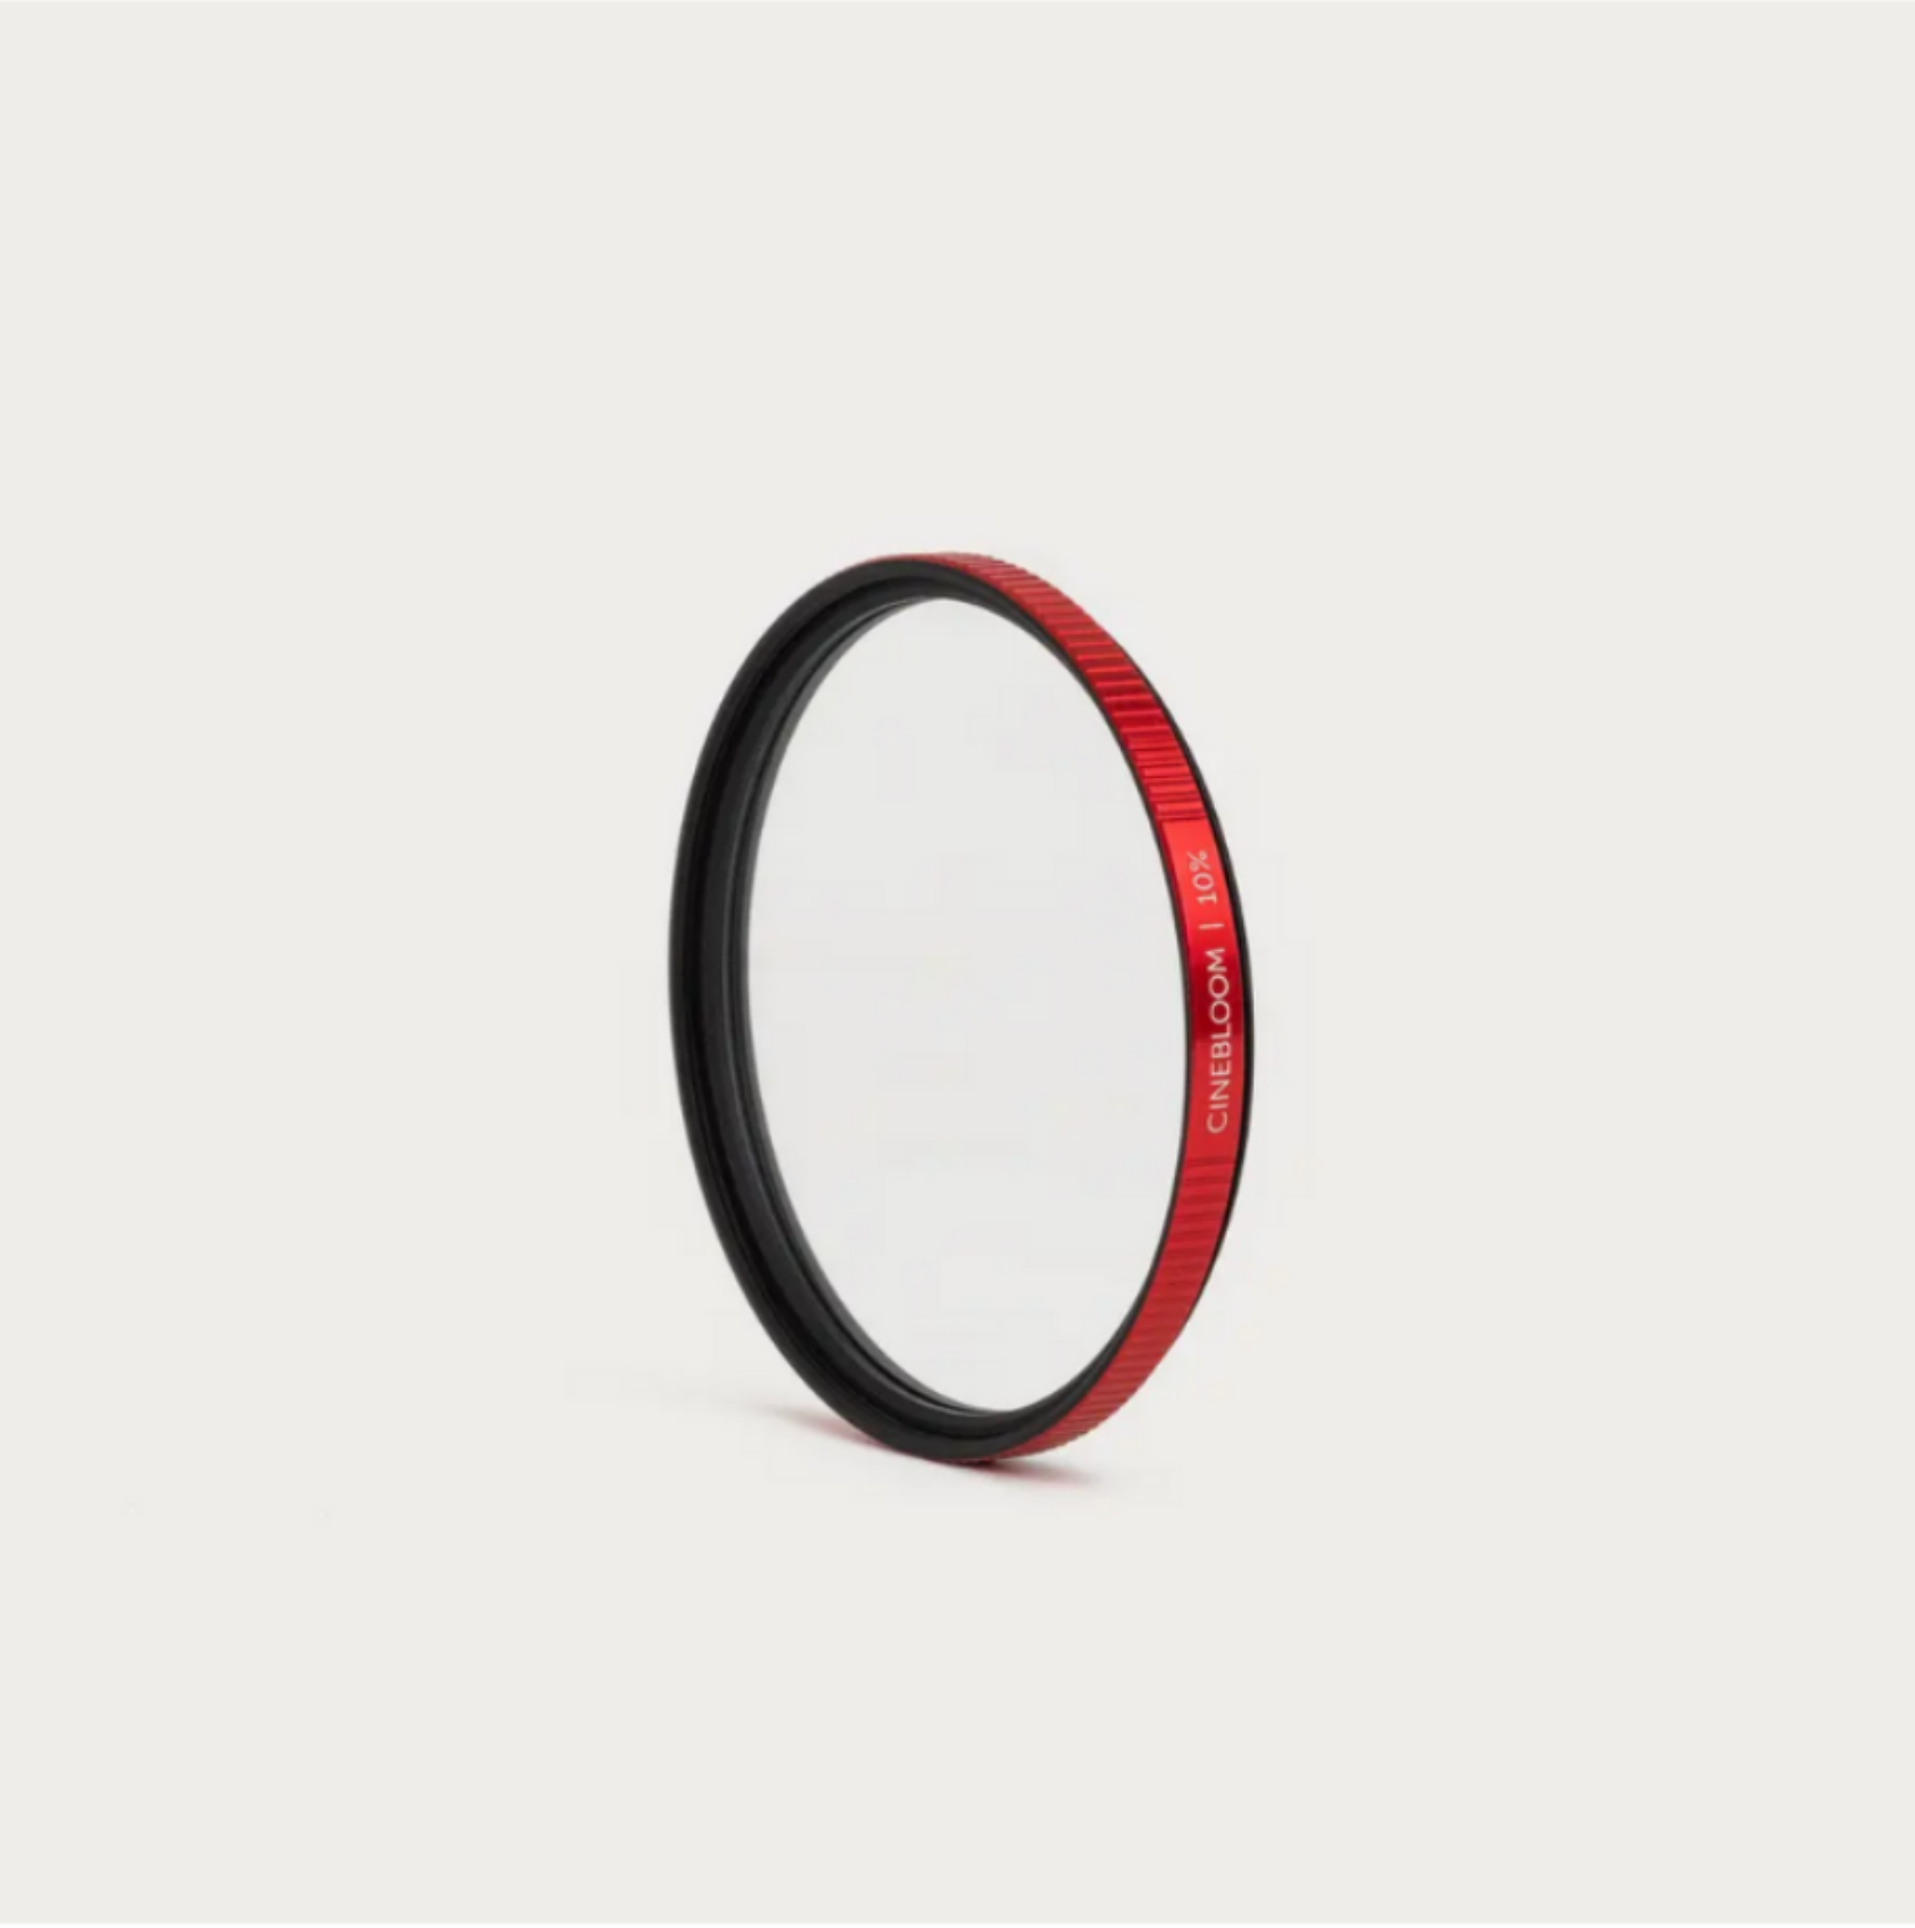
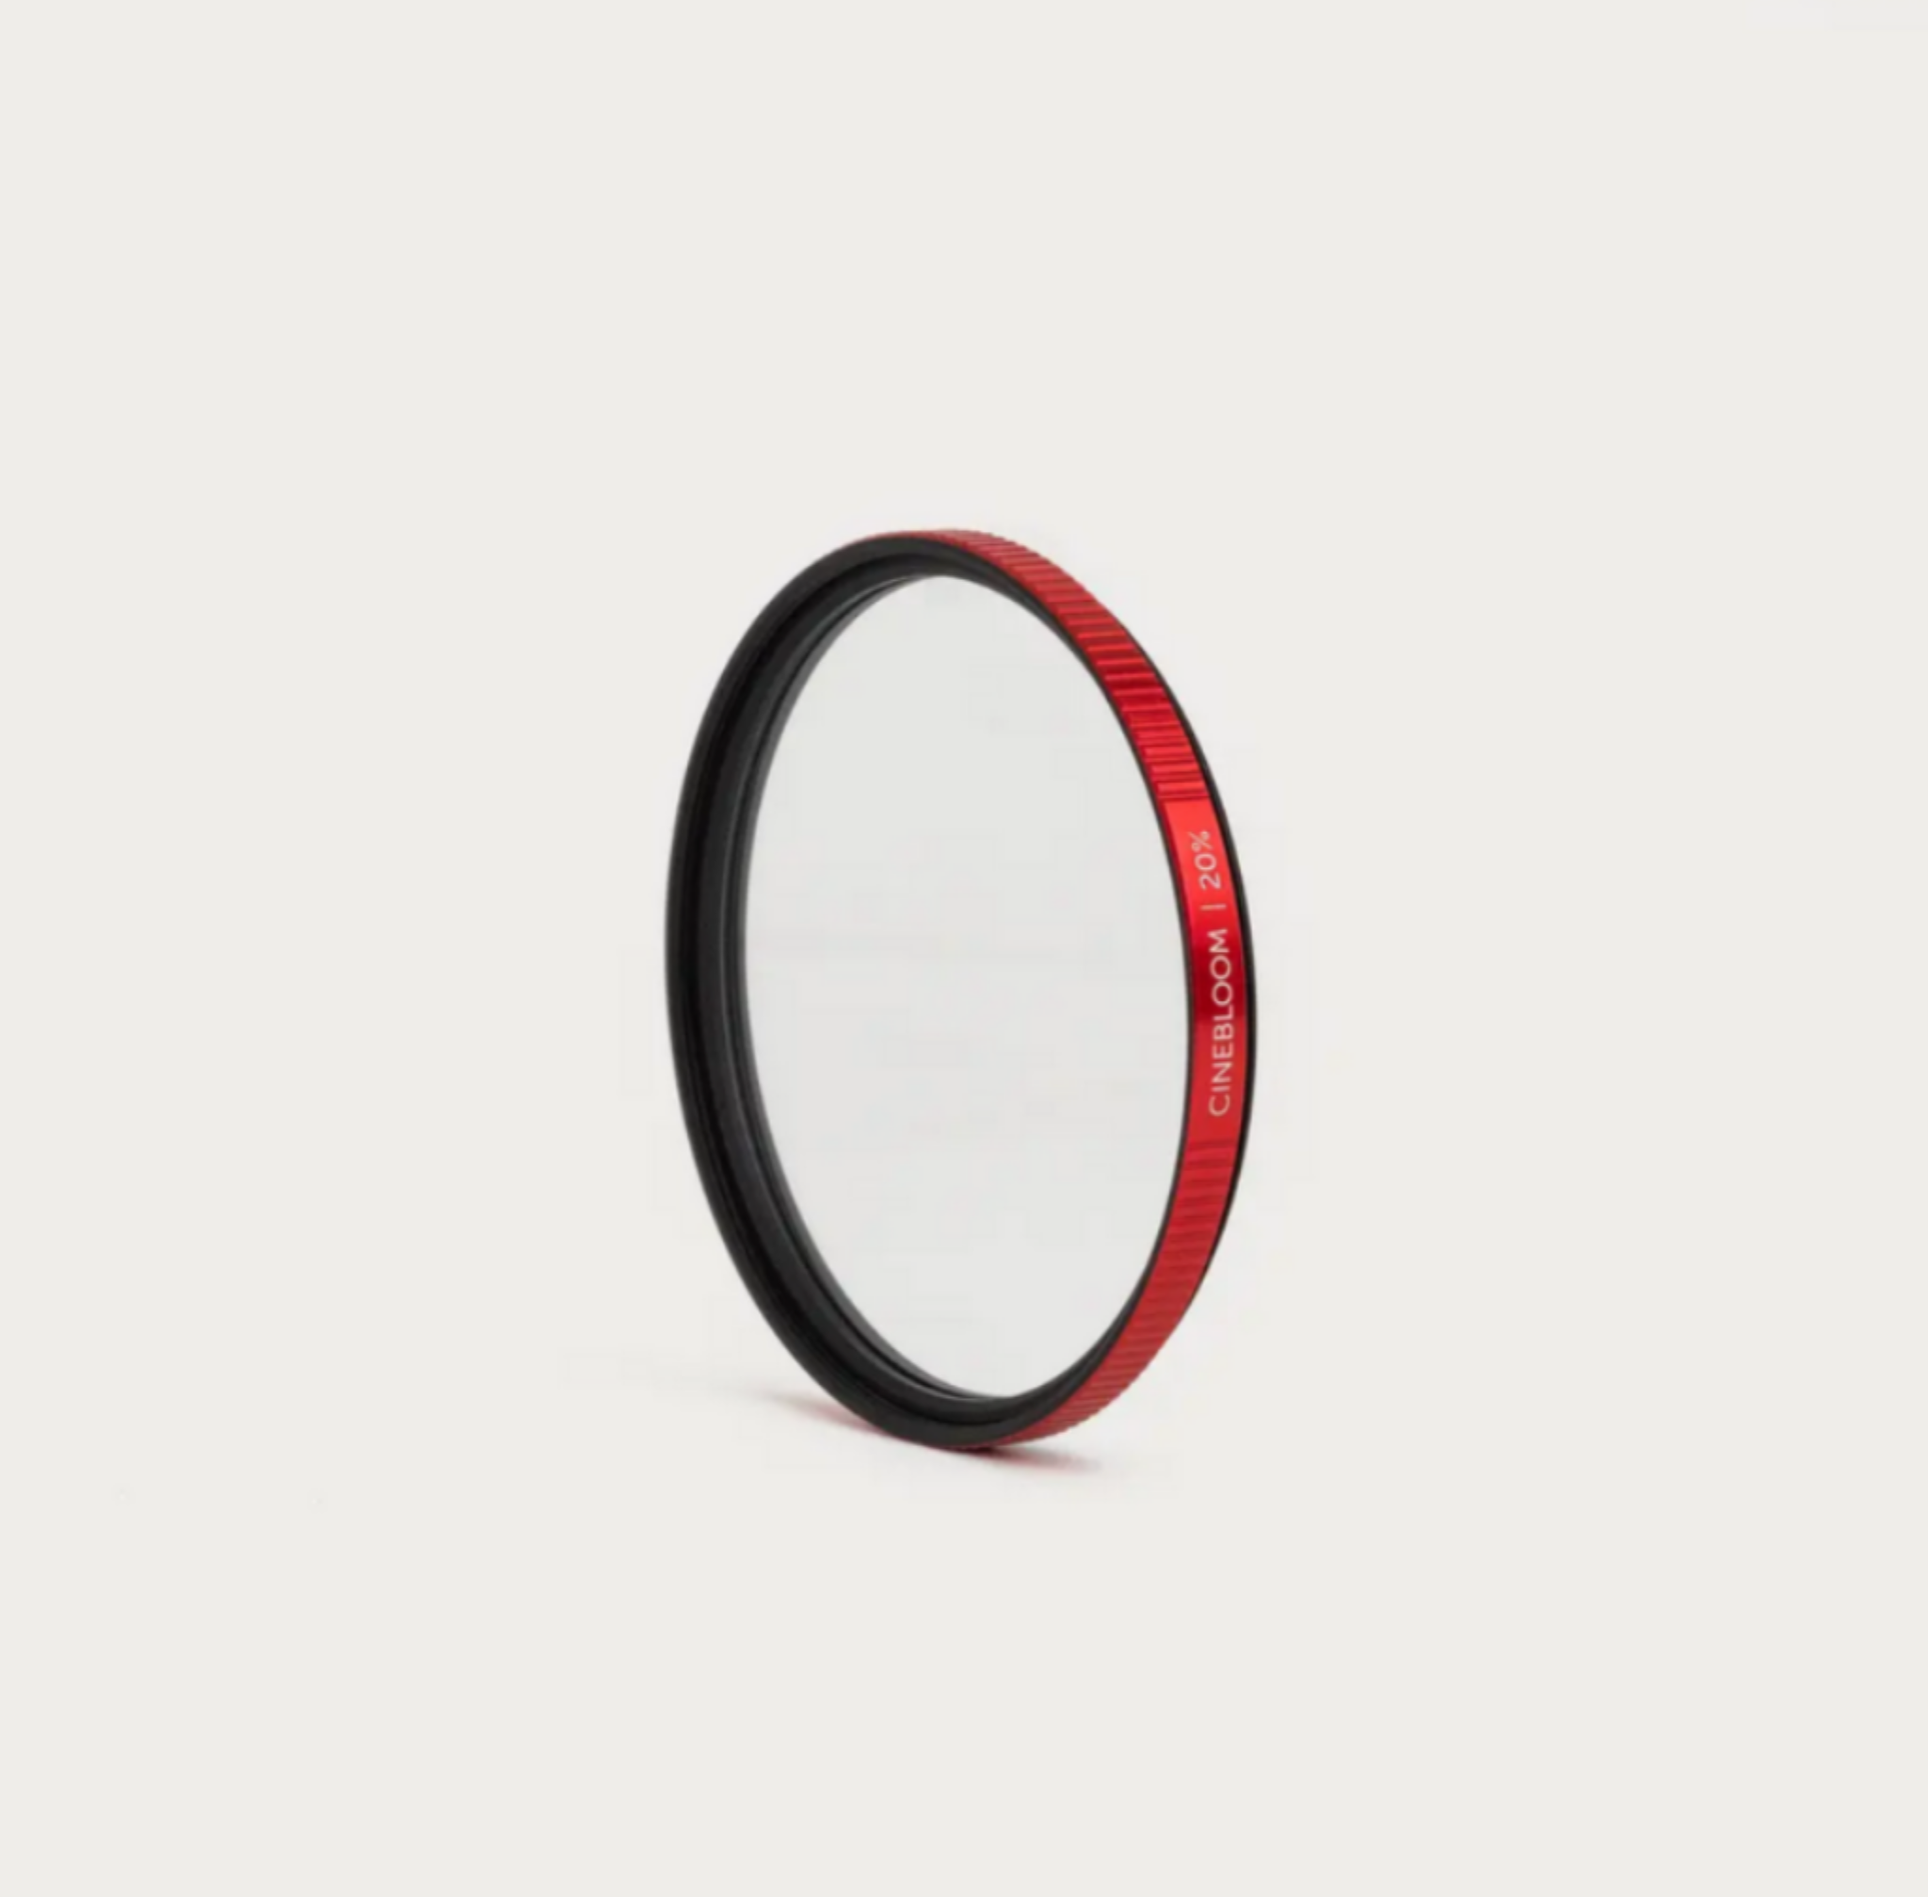
Wishlist: switch to CineBloom 20%

Changed region(s): [[0.3405, 0.2769, 0.6811, 0.8]]

diff --git a/wishlist.md b/wishlist.md
@@ -32,7 +32,7 @@ _A.k.a. a small number of things I’d absolutely love._
 |-------|------|-------|-------|
 | ![August](/images/august.png) | [August Wi-Fi Smart Lock](https://august.com/products/august-wifi-smart-lock) | **$250** | Silver |
 | ![SSD](/images/ssd.jpg) | [2TB Samsung 860 QVO SSD](https://www.samsung.com/us/computing/memory-storage/solid-state-drives/ssd-860-qvo-2-5-sata-iii-2tb-mz-76q2t0b-am/) | **$250** | Not picky about brand or model, but I'd like a 2TB SSD that works in the PS4 |
-| ![CineBloom](/images/cinebloom.png) | [62mm Moment CineBloom 10% filter](https://www.shopmoment.com/shop/62mm-cinebloom-diffusion-filters/10) | **$60** | |
+| ![CineBloom](/images/cinebloom.png) | [62mm Moment CineBloom 20% filter](https://www.shopmoment.com/shop/62mm-cinebloom-diffusion-filters/20) | **$60** | |
 | ![Pi Camera](/images/pi-camera.jpg) | [Pi NoIR Camera V2](https://www.raspberrypi.org/products/pi-noir-camera-v2/) | **$25** | Infrared camera for Raspberry Pi; does not need to be this exact model/listing |
 | ![PiDeco](/images/pideco.jpg) | [PiDeco Case](https://www.c4labs.com/product/pi-deco-camera-case-raspberry-pi-zero-zero-w-camera-module-v2-classic-wood/) | **$17** | For Pi Zero and camera |
 | ![Counterweights](https://image.shopmoment.com/cdn-cgi/image/format=auto,quality=75,width=300,fit=cover,gravity=0.5x0.5,height=300/https://image.shopmoment.com/general/product/Moment-109-005-Counterweight-for-DJI-Osmo-Mobile-3-01.jpg?mtime=20200326162929) | [Moment Osmo 3 Counterweights](https://moment.8ocm68.net/M70XY) | **$15** | |
